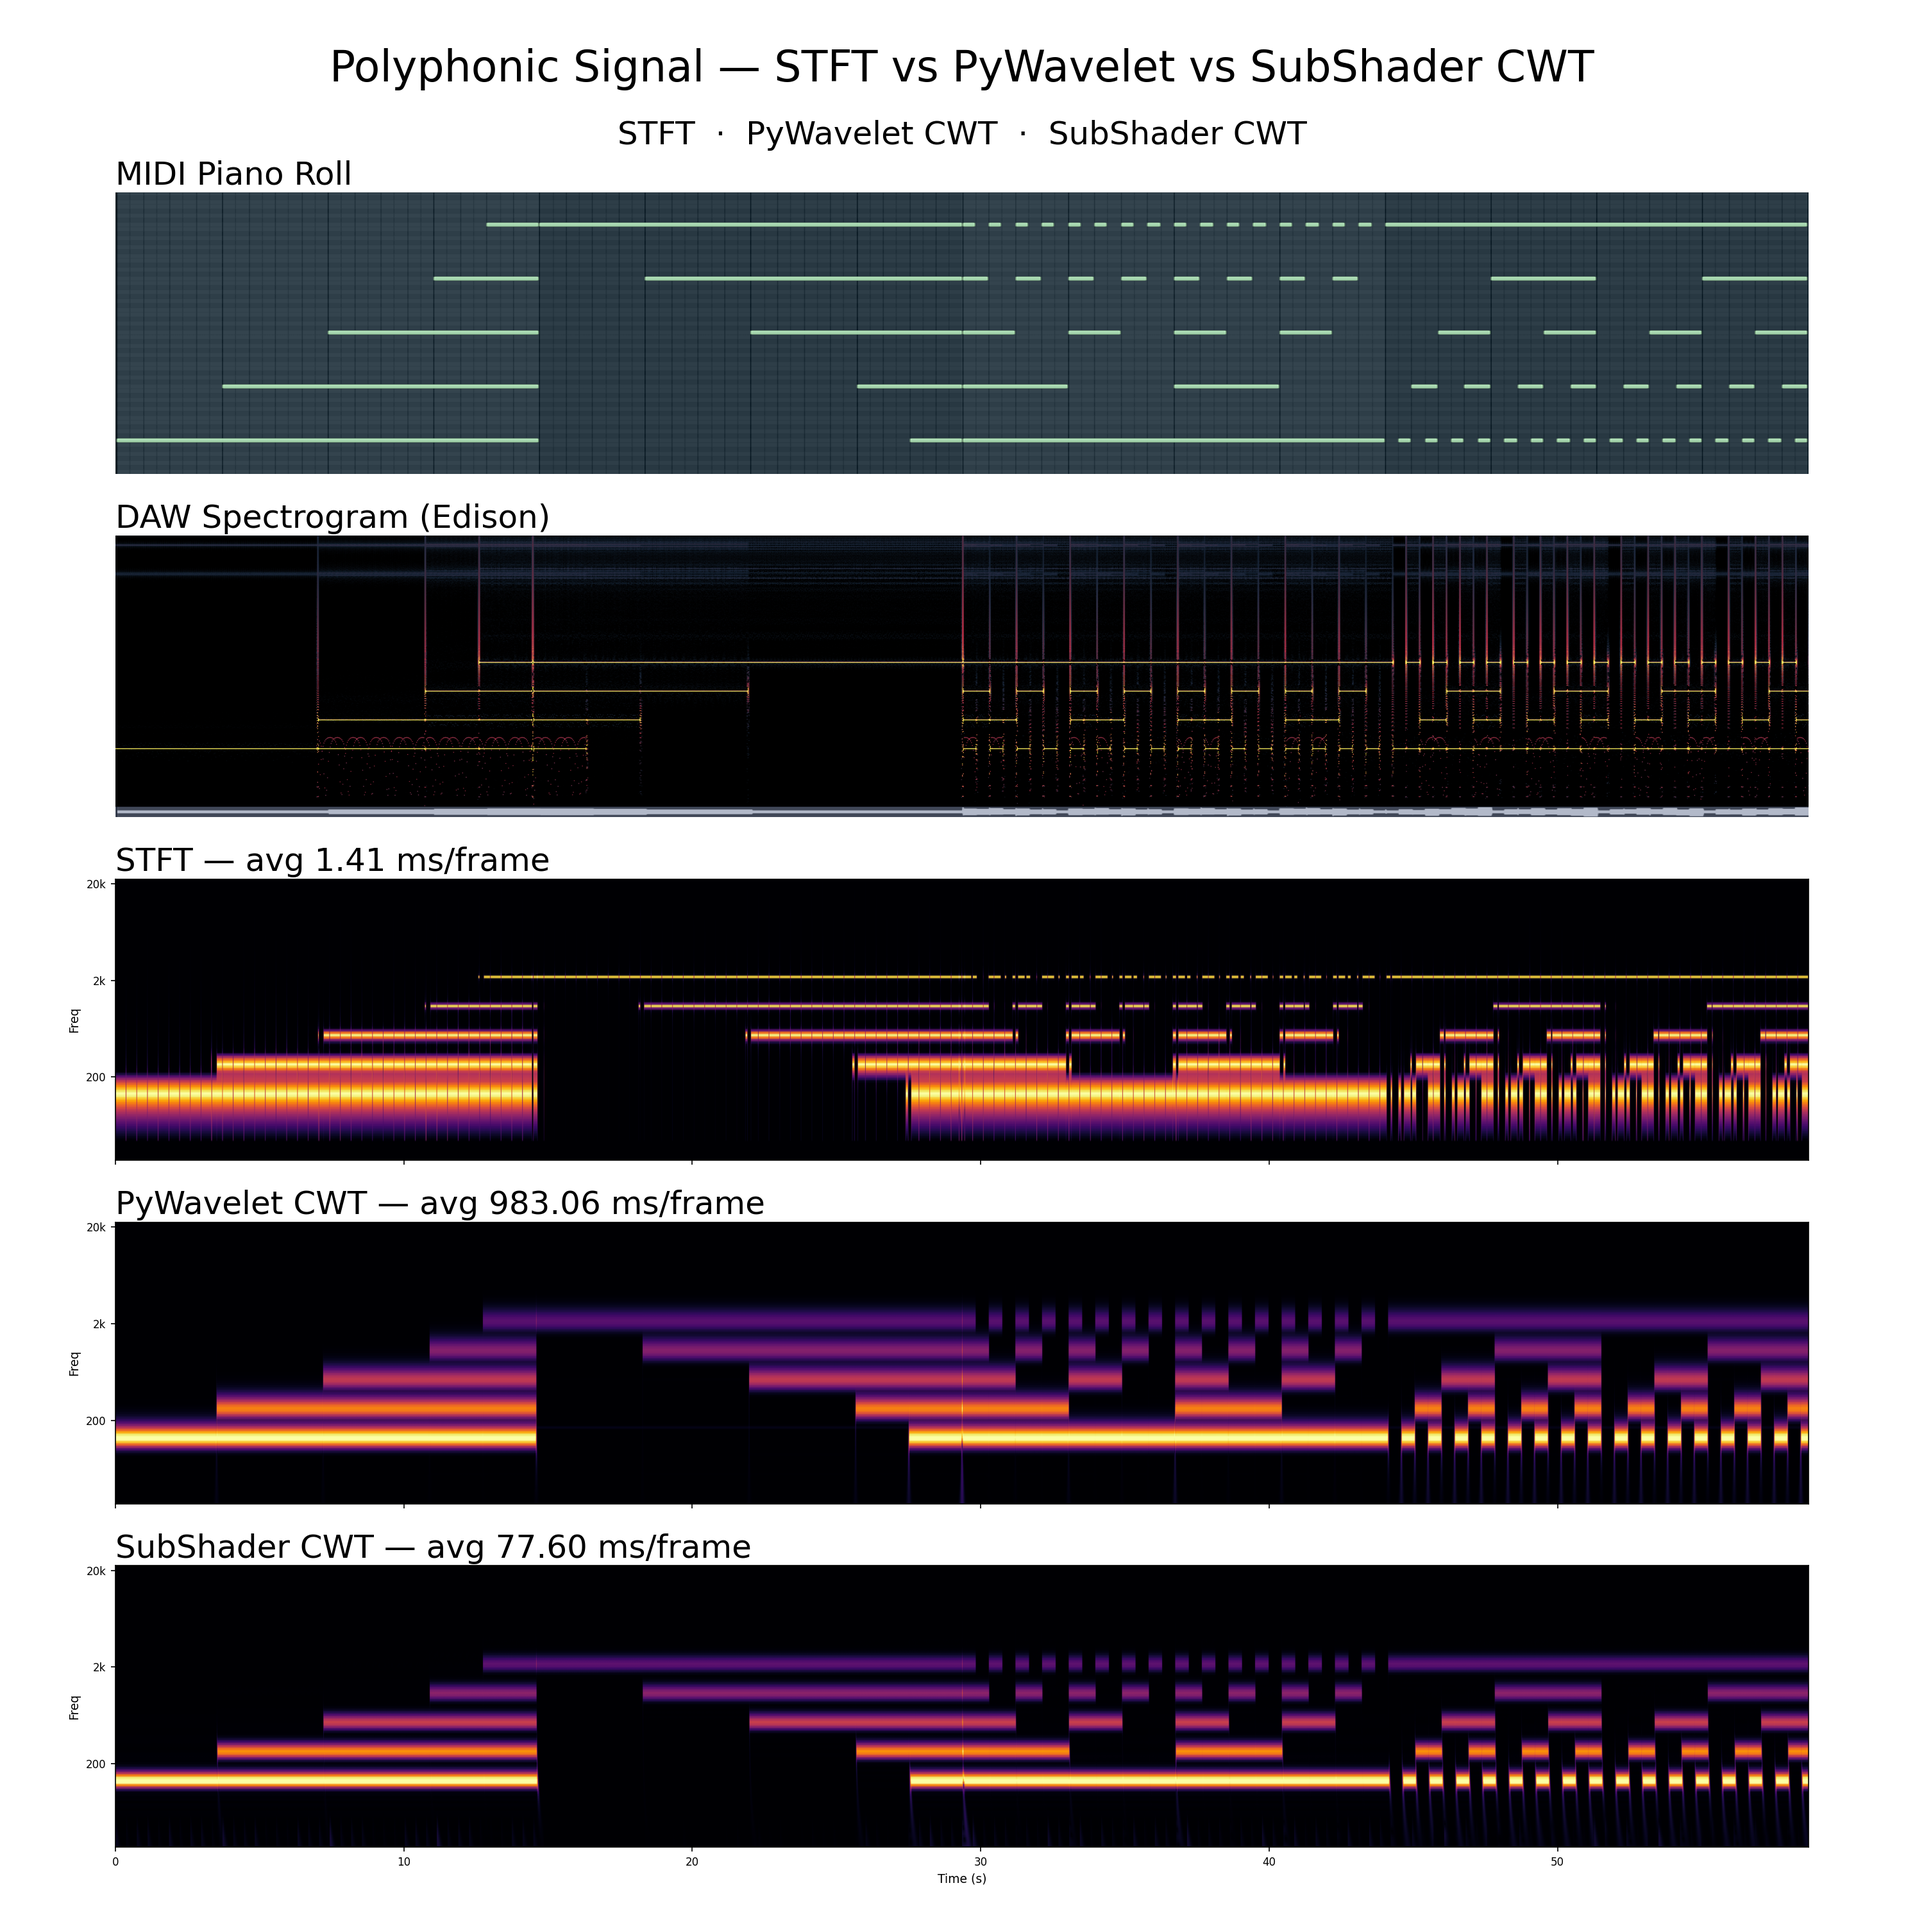
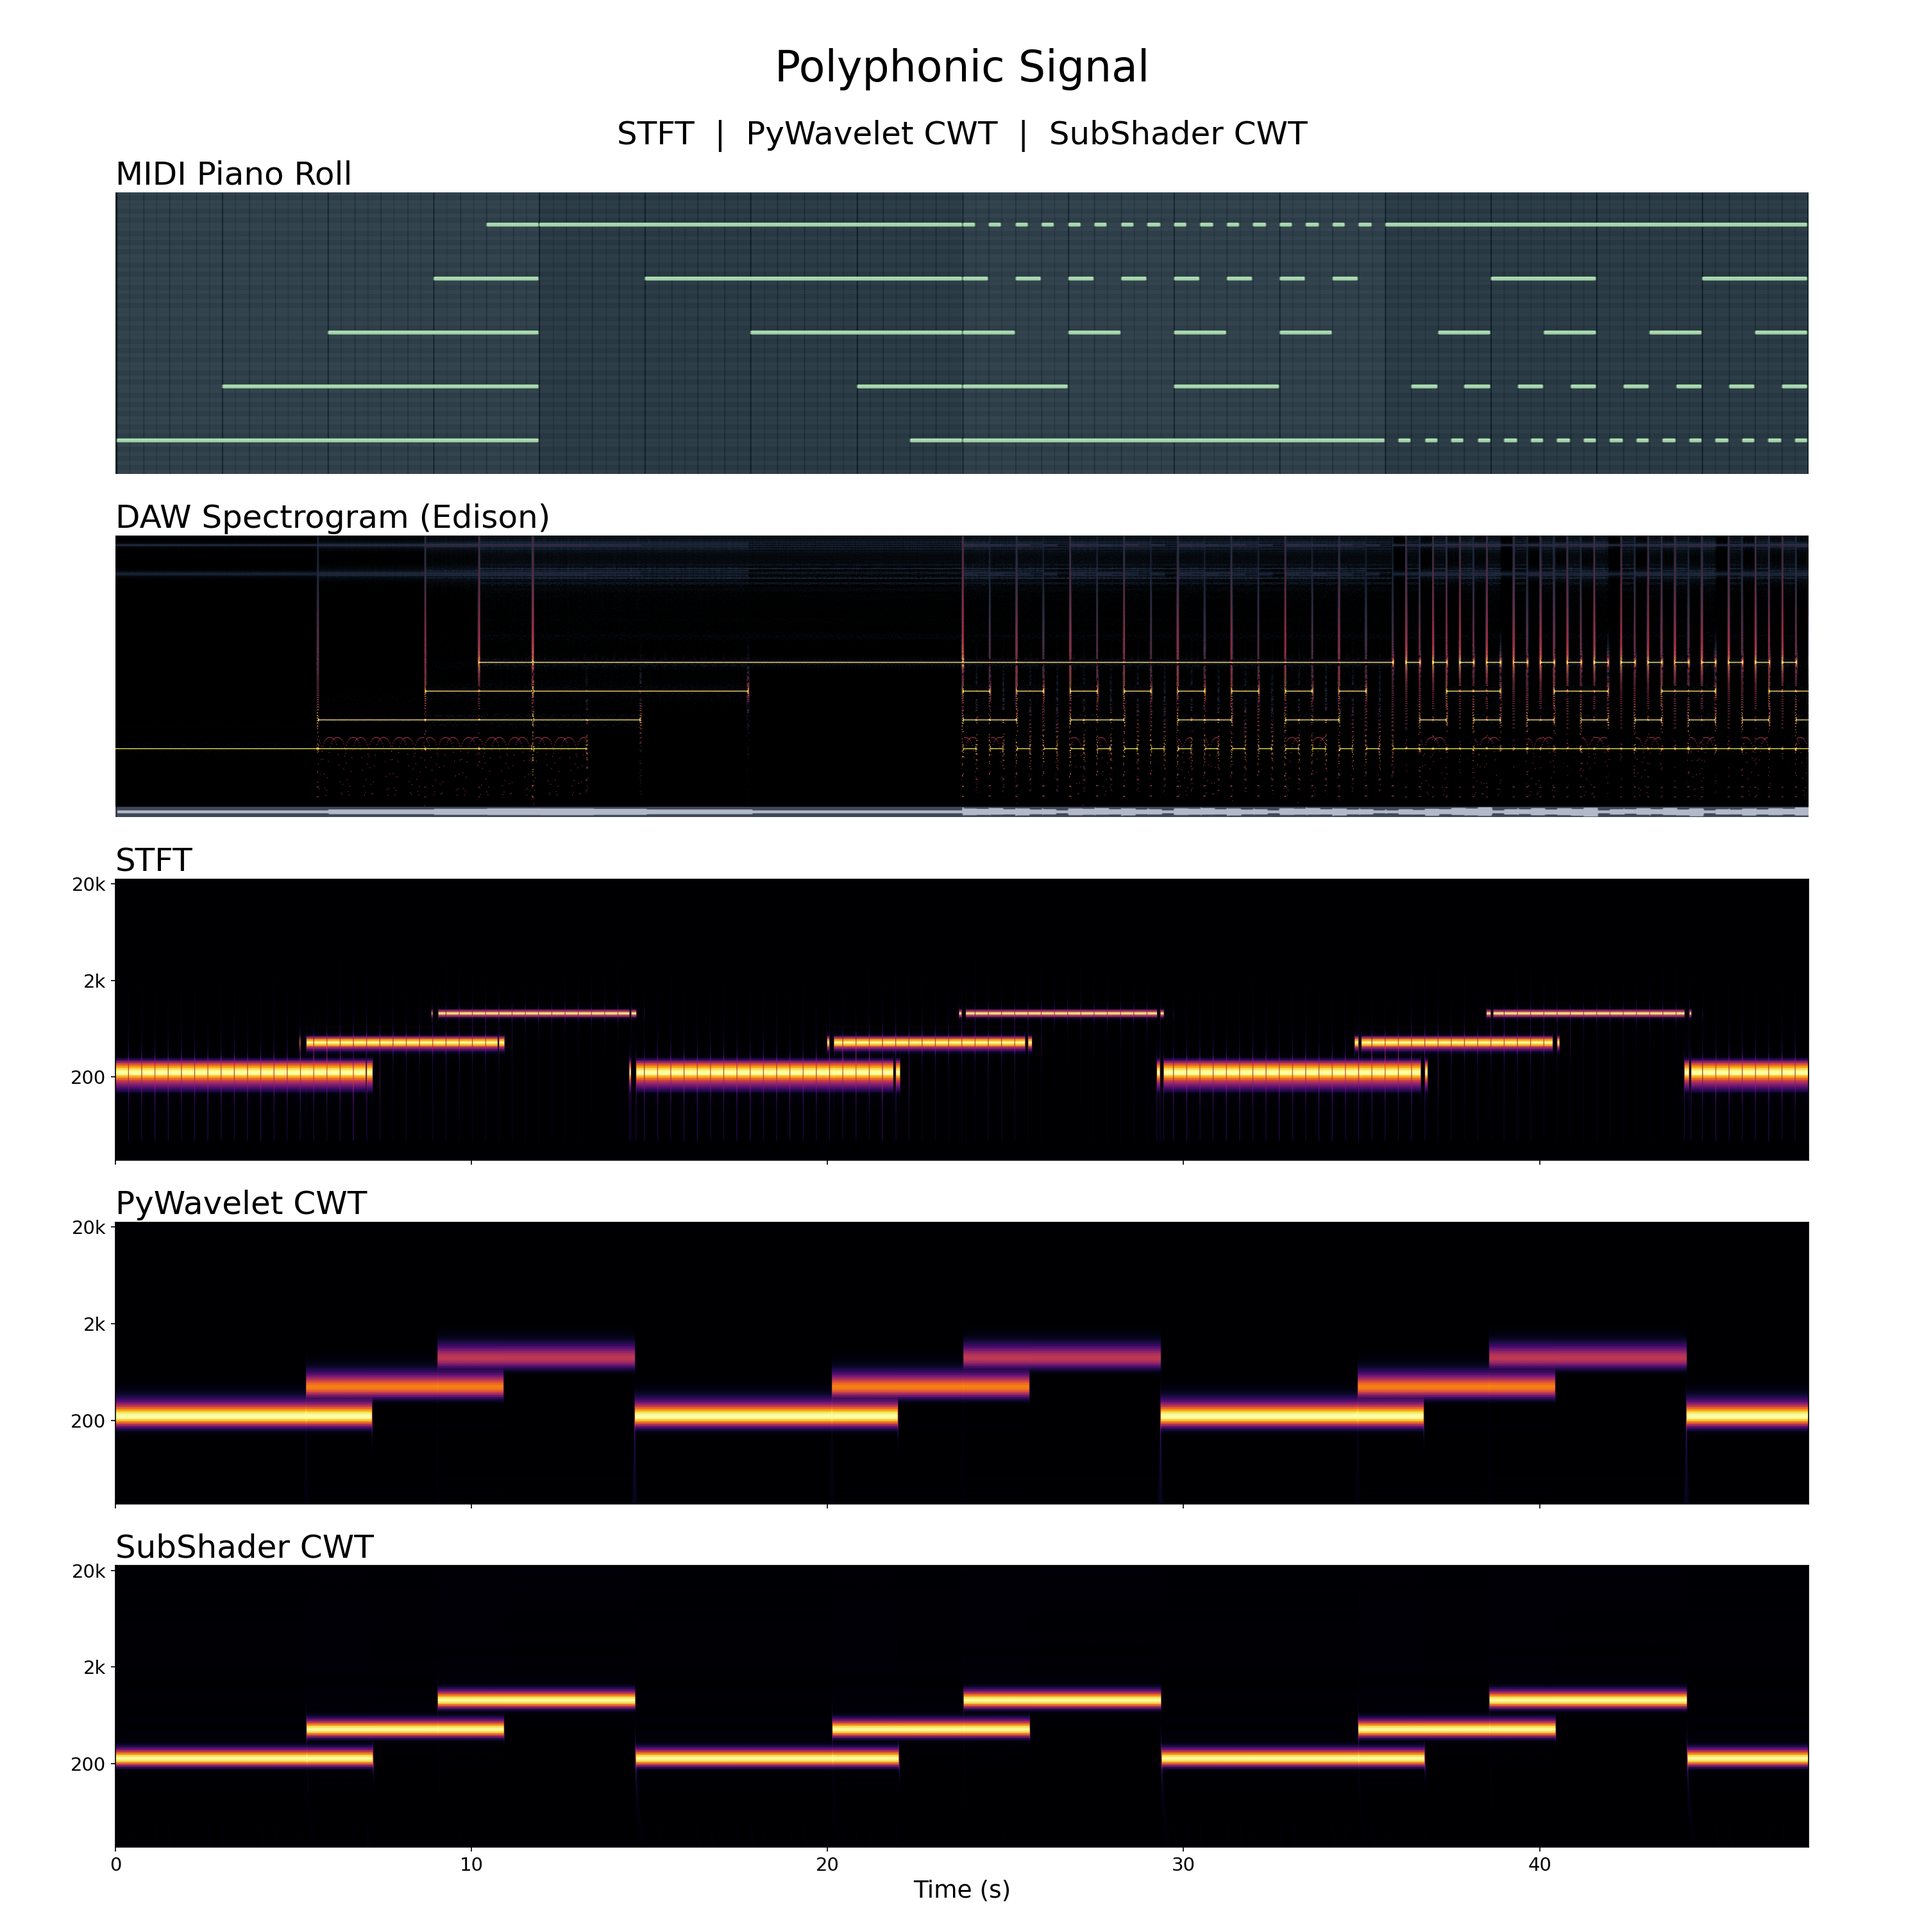
feat(02-02): regenerate benchmark figures with L1-normalized kernels
- Updated chirp_signal_comparison.png showing uniform brightness across sweep
- Updated polyphonic_signal_comparison.png using overlapping_A3_A4_A5.wav
- Fixed AUDIO_POLYPHONIC constant (was pointing to empty 0-frame placeholder file)

diff --git a/research/utilities/constants.py b/research/utilities/constants.py
@@ -14,7 +14,7 @@ BENCHMARKS_STUBS_DIR = "assets/images/benchmarks/stubs"
 
 AUDIO_DEFAULT = "assets/audio/daw/a2a3_a4_minor_scale.wav"
 AUDIO_CHIRP = "assets/audio/daw/chirp_beat.wav"
-AUDIO_POLYPHONIC = "assets/audio/daw/polyphonic_audio_example.wav"
+AUDIO_POLYPHONIC = "assets/audio/daw/overlapping_A3_A4_A5.wav"
 AUDIO_MUSICAL = "assets/audio/daw/musical_audio_example.wav"
 
 # =============================================================================
